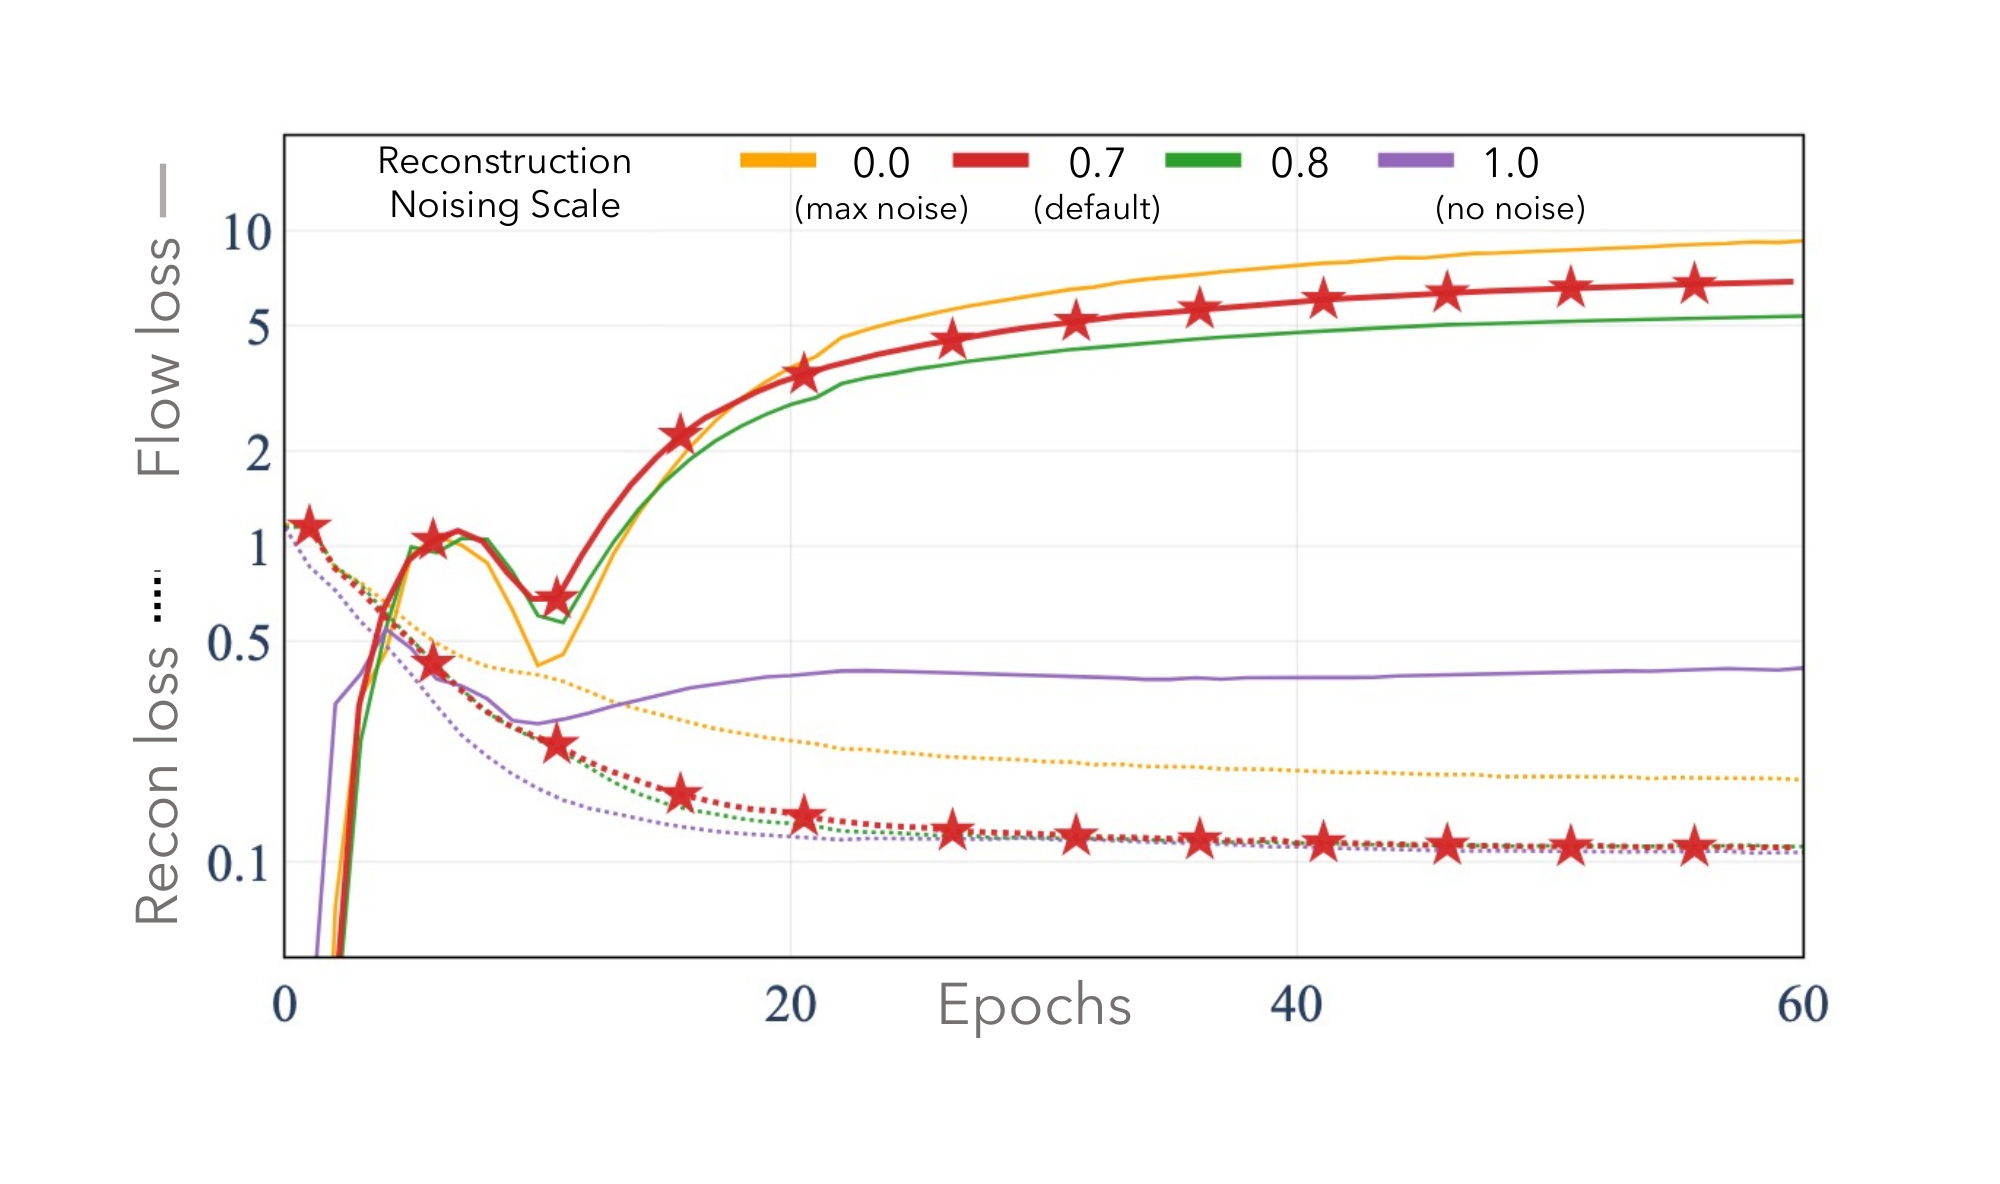
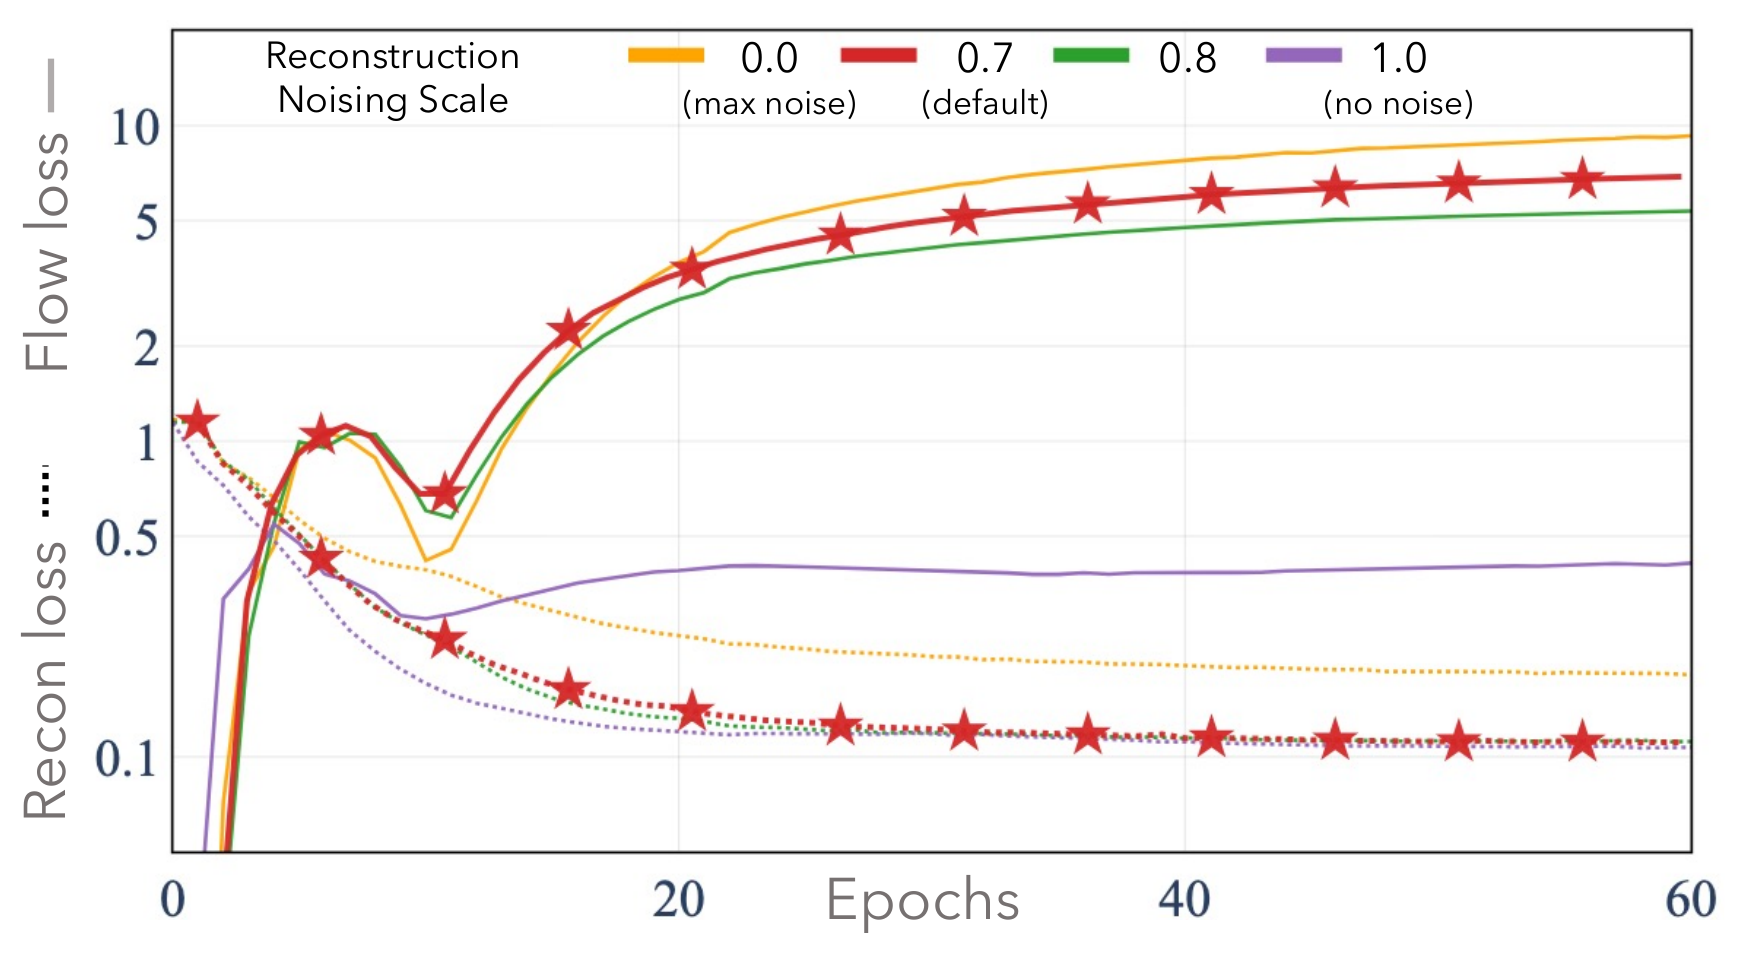
Trim figure whitespace, redesign Phase 2 animation trajectories
- Trim excess whitespace from 7 figures (up to 80% waste removed)
- Reduce denoising trajectory to 4 segments, add GE box per segment
- Fix trajectory crossings: rearrange angles so 3 paths don't overlap
- Fix "bold 700" invalid canvas font causing label size jumps
- Fix dot size jump: only draw leading dot on active segment
- Endpoint dots appear with their GE box, not the next segment's
- Increase timestep label size and carefully position all 9 labels

diff --git a/src/LatentAnimation.jsx b/src/LatentAnimation.jsx
@@ -28,12 +28,12 @@ const CFG = {
     { x: 0.48, y: 0.39 },
     { x: 0.54, y: 0.45 },
   ],
-  genAngles: [0.15 * Math.PI, 1.0 * Math.PI, 1.7 * Math.PI],
+  genAngles: [0.15 * Math.PI, 0.85 * Math.PI, 1.42 * Math.PI],
   colors: {
     steelBlue: "#2c6faa",
     iceBue: "#7bb8d9",
     burntOrange: "#c04800",
-    trajGrad: ["#e8780a", "#d46a08", "#c05d06", "#a85004", "#8f4303", "#6b3202"],
+    trajGrad: ["#e8780a", "#c85e06", "#a85004", "#7a3802"],
     gaussian: "#bbb",
     bg: "transparent",
   },
@@ -46,6 +46,7 @@ const CFG = {
 };
 
 // Pre-compute trajectories
+const NUM_SEGMENTS = 4; // 4 segments per trajectory
 function buildTrajectories() {
   const out = [];
   for (let i = 0; i < NUM_ROWS; i++) {
@@ -57,8 +58,8 @@ function buildTrajectories() {
     const mx = (sx + ep.x) / 2 + bo * Math.sin(a);
     const my = (sy + ep.y) / 2 - bo * Math.cos(a);
     const wps = [];
-    for (let t = 0; t <= 1.001; t += 0.2) {
-      const tt = Math.min(t, 1);
+    for (let j = 0; j <= NUM_SEGMENTS; j++) {
+      const tt = j / NUM_SEGMENTS;
       wps.push({
         x: (1 - tt) ** 2 * sx + 2 * (1 - tt) * tt * mx + tt ** 2 * ep.x,
         y: (1 - tt) ** 2 * sy + 2 * (1 - tt) * tt * my + tt ** 2 * ep.y,
@@ -264,19 +265,23 @@ export default function LatentAnimation() {
     ctx.globalAlpha = 1;
   }, []);
 
-  const drawTraj = useCallback((ctx, idx, progress, alpha) => {
+  const drawTraj = useCallback((ctx, idx, progress, alpha, showGE) => {
     const wps = TRAJS[idx];
-    const n = wps.length - 1;
+    const n = wps.length - 1; // NUM_SEGMENTS
     const cur = progress * n;
+    const s = stateRef.current.size;
+    const dotR = 5; // consistent dot radius
+
     for (let j = 0; j < n; j++) {
       if (j > cur) break;
       const sp = Math.min(1, cur - j);
       const ci = Math.min(j, CFG.colors.trajGrad.length - 1);
       const col = CFG.colors.trajGrad[ci];
-      const s = stateRef.current.size;
       const p0x = wps[j].x * s, p0y = wps[j].y * s;
       const p1x = wps[j + 1].x * s, p1y = wps[j + 1].y * s;
       const ex = p0x + (p1x - p0x) * sp, ey = p0y + (p1y - p0y) * sp;
+
+      // Segment line
       ctx.beginPath();
       ctx.moveTo(p0x, p0y);
       ctx.lineTo(ex, ey);
@@ -284,16 +289,42 @@ export default function LatentAnimation() {
       ctx.lineWidth = 2.5;
       ctx.globalAlpha = alpha * 0.7;
       ctx.stroke();
-      // Waypoint dot
-      ctx.beginPath();
-      ctx.arc(p0x, p0y, 4, 0, Math.PI * 2);
-      ctx.fillStyle = col;
-      ctx.globalAlpha = alpha * 0.6;
-      ctx.fill();
-      // Leading dot
-      if (j === Math.floor(cur) && sp < 1) {
+
+      const isActive = j === Math.floor(cur) && sp < 1;
+
+      if (!isActive) {
+        // Completed segment — draw normal waypoint dot
         ctx.beginPath();
-        ctx.arc(ex, ey, 8, 0, Math.PI * 2);
+        ctx.arc(p0x, p0y, dotR, 0, Math.PI * 2);
+        ctx.fillStyle = col;
+        ctx.globalAlpha = alpha * 0.7;
+        ctx.fill();
+        ctx.strokeStyle = "#fff";
+        ctx.lineWidth = 1.5;
+        ctx.stroke();
+      }
+
+      // GE box + endpoint dot at midpoint of completed segments
+      if (showGE && sp >= 1) {
+        const mx = (wps[j].x + wps[j + 1].x) / 2;
+        const my = (wps[j].y + wps[j + 1].y) / 2;
+        drawBox(ctx, "GE", mx, my, CFG.colors.burntOrange, alpha * 0.85);
+        // Endpoint dot appears with its GE, not the next segment's GE
+        const nci = Math.min(j + 1, CFG.colors.trajGrad.length - 1);
+        ctx.beginPath();
+        ctx.arc(wps[j + 1].x * s, wps[j + 1].y * s, dotR, 0, Math.PI * 2);
+        ctx.fillStyle = CFG.colors.trajGrad[nci];
+        ctx.globalAlpha = alpha * 0.7;
+        ctx.fill();
+        ctx.strokeStyle = "#fff";
+        ctx.lineWidth = 1.5;
+        ctx.stroke();
+      }
+
+      // Leading dot — only element at the active position
+      if (isActive) {
+        ctx.beginPath();
+        ctx.arc(ex, ey, dotR + 2, 0, Math.PI * 2);
         ctx.fillStyle = CFG.colors.burntOrange;
         ctx.globalAlpha = alpha;
         ctx.fill();
@@ -302,11 +333,12 @@ export default function LatentAnimation() {
         ctx.stroke();
       }
     }
+
+    // Final waypoint dot when complete
     if (progress >= 1) {
       const last = wps[wps.length - 1];
-      const s = stateRef.current.size;
       ctx.beginPath();
-      ctx.arc(last.x * s, last.y * s, 8, 0, Math.PI * 2);
+      ctx.arc(last.x * s, last.y * s, dotR + 2, 0, Math.PI * 2);
       ctx.fillStyle = CFG.colors.burntOrange;
       ctx.globalAlpha = alpha;
       ctx.fill();
@@ -315,7 +347,7 @@ export default function LatentAnimation() {
       ctx.stroke();
     }
     ctx.globalAlpha = 1;
-  }, []);
+  }, [drawBox]);
 
   // ── Phase runners ────────────────────────────────────────────
   const runP1 = useCallback((ctx, el) => {
@@ -410,6 +442,30 @@ export default function LatentAnimation() {
     const arrowRads = [0.015, 0.0, -0.015];
     const activeIdx = Math.min(NUM_ROWS - 1, Math.floor(el / c.trajDelay));
 
+    // Per-trajectory, per-label offsets for t= labels
+    // Each entry: [waypointIndex, label, dx, dy]
+    // With 4 segments: waypoints 0,1,2,3,4
+    const labelOffsets = [
+      // Traj 0: lower-right → upper-center (labels to the right of trajectory)
+      [
+        [0, "t=1.0", 0.042, 0.012],
+        [2, "t=0.5", 0.042, 0.0],
+        [NUM_SEGMENTS, "t=0.0", 0.042, -0.012],
+      ],
+      // Traj 1: lower-left → center (labels to the left / below)
+      [
+        [0, "t=1.0", -0.042, 0.025],
+        [2, "t=0.5", -0.02, 0.05],
+        [NUM_SEGMENTS, "t=0.0", -0.058, 0.025],
+      ],
+      // Traj 2: upper-left → center (labels to the left / above)
+      [
+        [0, "t=1.0", -0.042, -0.02],
+        [2, "t=0.5", -0.048, 0.005],
+        [NUM_SEGMENTS, "t=0.0", 0.055, 0.035],
+      ],
+    ];
+
     for (let i = 0; i < NUM_ROWS; i++) {
       const ts = i * c.trajDelay;
       const te = el - ts;
@@ -418,58 +474,24 @@ export default function LatentAnimation() {
       const prog = Math.min(1, te / c.trajDur);
       const done = prog >= 1;
 
-      // GE box between waypoints (on the edge, not on a node)
-      const geWpA = TRAJS[i][1]; // between wp1 and wp2
-      const geWpB = TRAJS[i][2];
-      const gePos = { x: (geWpA.x + geWpB.x) / 2, y: (geWpA.y + geWpB.y) / 2 };
-
-      // Per-trajectory, per-label offsets for t= labels
-      // Each entry: [waypointIndex, label, dx, dy]
-      const labelOffsets = [
-        // Traj 0: curves from bottom-right to upper-center
-        [
-          [0, "t=1.0", 0.035, 0.005],
-          [3, "t=0.5", 0.035, -0.015],
-          [5, "t=0.0", 0.035, -0.015],
-        ],
-        // Traj 1: goes from left to center (mostly horizontal)
-        [
-          [0, "t=1.0", -0.035, 0.025],
-          [3, "t=0.5", 0.0, 0.028],
-          [5, "t=0.0", 0.035, 0.012],
-        ],
-        // Traj 2: curves from upper-right down to center
-        [
-          [0, "t=1.0", 0.035, -0.01],
-          [3, "t=0.5", -0.045, 0.01],
-          [5, "t=0.0", 0.035, 0.015],
-        ],
-      ];
-
-      // Completed trajs
+      // Completed trajs — GE boxes drawn inside drawTraj
       if (i < activeIdx) {
-        drawTraj(ctx, i, 1, 0.35);
-        drawBox(ctx, "GE", gePos.x, gePos.y, CFG.colors.burntOrange, 0.35);
+        drawTraj(ctx, i, 1, 0.35, true);
         const da = 0.5;
         drawBox(ctx, "D", L.decoderX, y, CFG.colors.burntOrange, da);
         drawImg(ctx, imgs.current.gen[i], L.rightX, y, L.imgSize, da, CFG.colors.burntOrange);
       } else {
-        // Active traj
-        drawTraj(ctx, i, prog, 0.9);
-
-        // GE box appears when trajectory passes ~30%
-        if (prog >= 0.3) {
-          drawBox(ctx, "GE", gePos.x, gePos.y, CFG.colors.burntOrange, 0.9);
-        }
+        // Active traj — GE boxes appear as segments complete
+        drawTraj(ctx, i, prog, 0.9, true);
 
         // Timestep labels with per-trajectory offsets
         const labels = labelOffsets[i];
         for (let j = 0; j < labels.length; j++) {
           const [wpIdx, text, dx, dy] = labels[j];
-          const wpProg = wpIdx / 5;
+          const wpProg = wpIdx / NUM_SEGMENTS;
           if (prog >= wpProg) {
             const wp = TRAJS[i][wpIdx];
-            drawText(ctx, text, wp.x + dx, wp.y + dy, CFG.colors.burntOrange, 0.85, 0.014, "bold 700");
+            drawText(ctx, text, wp.x + dx, wp.y + dy, CFG.colors.burntOrange, 0.85, 0.017, "700");
           }
         }
 

diff --git a/src/styles.css b/src/styles.css
@@ -412,6 +412,7 @@ button {
   margin-right: auto;
   padding: 0;
   max-width: var(--page-width);
+  text-align: center;
 }
 
 .thesis-figure img,
